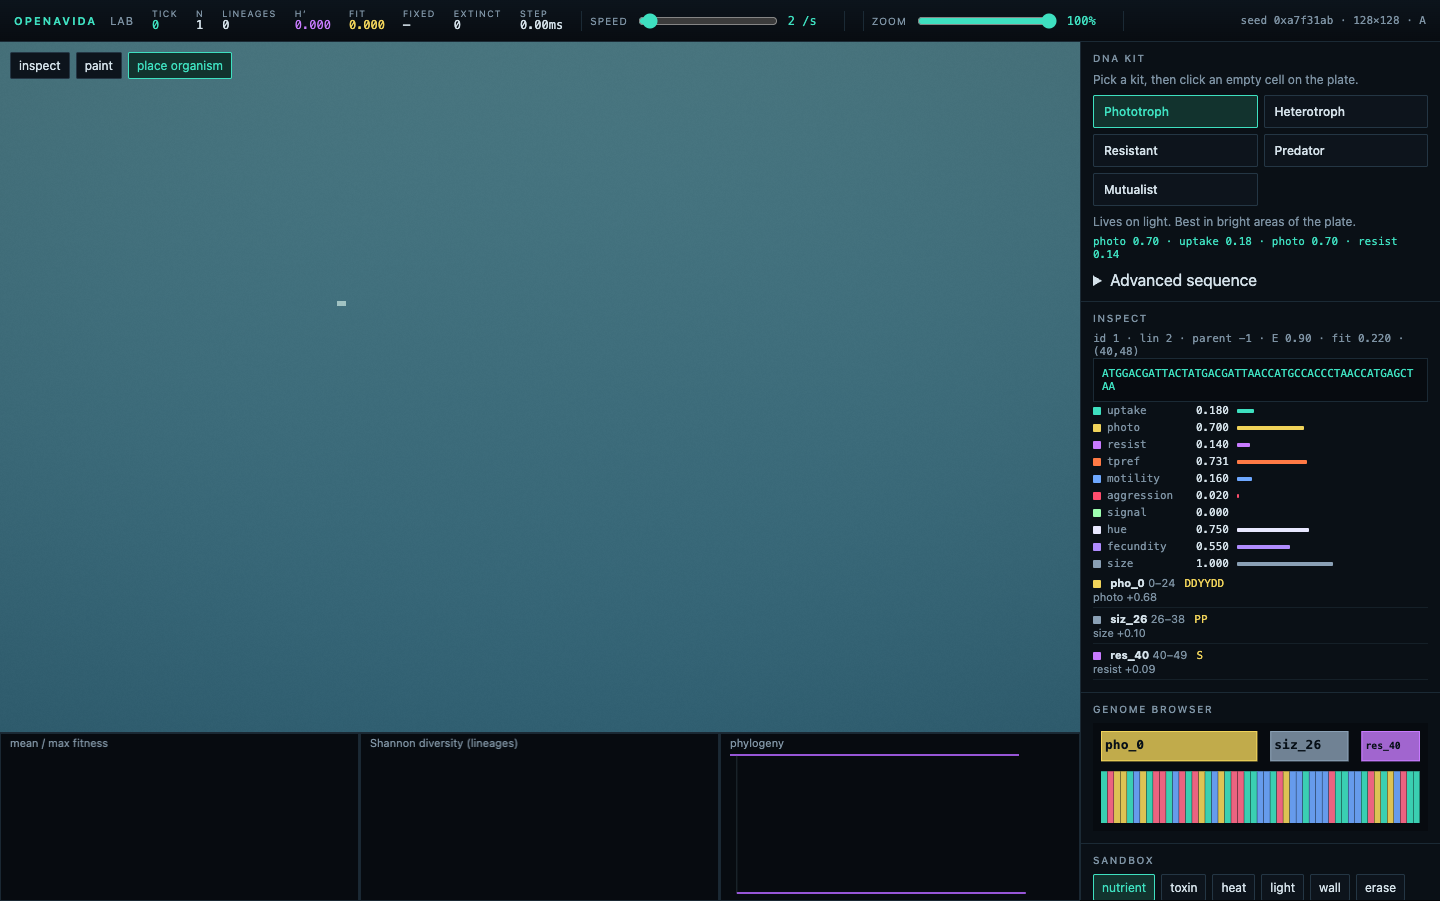
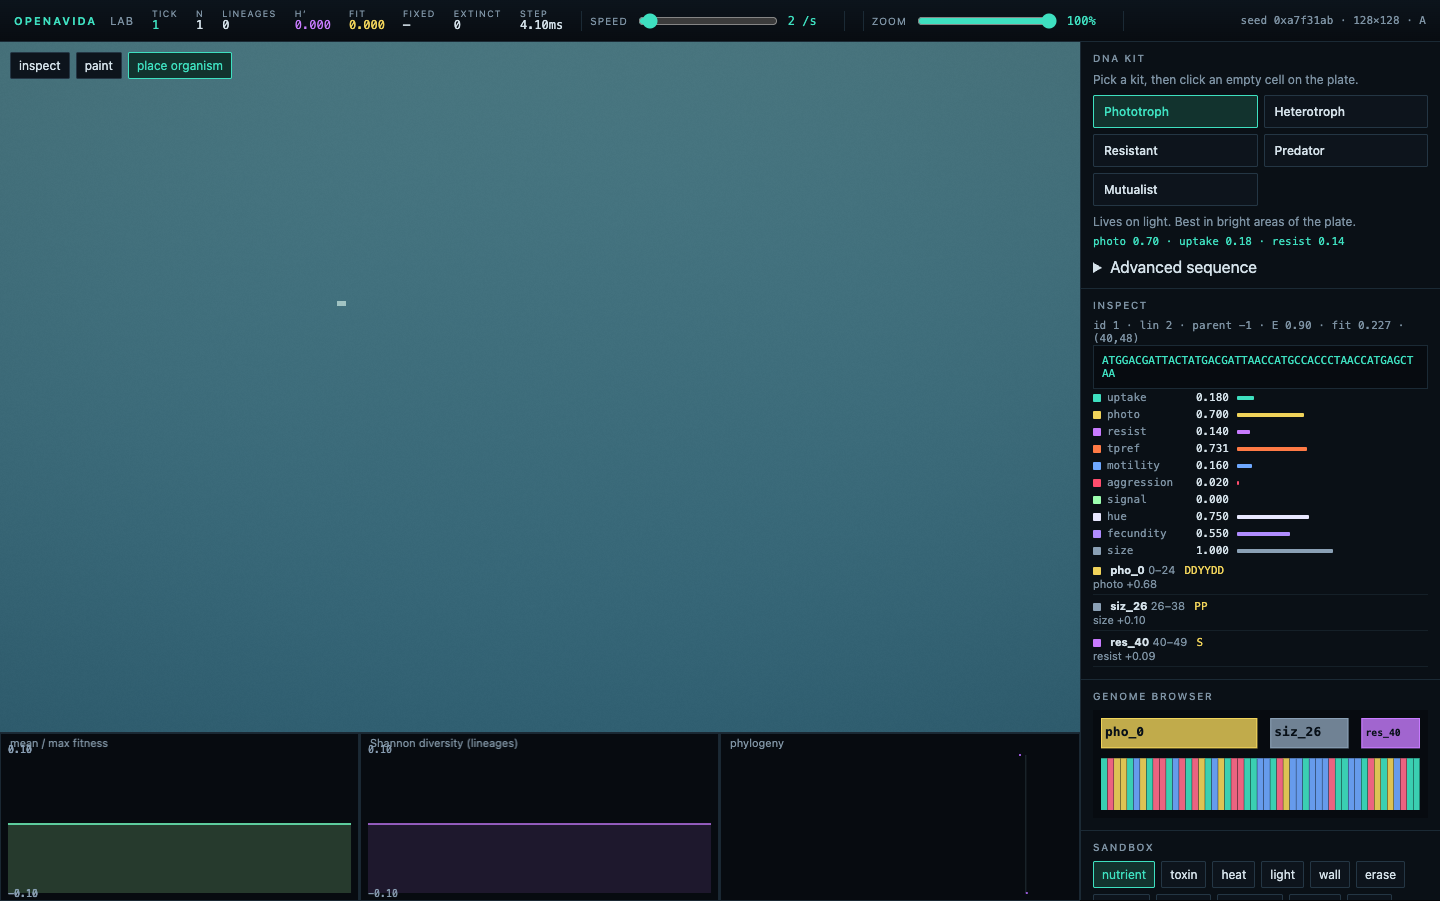
Fix kit-select after paint: place uses applyTool so paintMode clears.
pointerAction is the shipped click router; selecting a DNA kit now
calls setTool('place') instead of only flipping the HUD class.

diff --git a/src/app.ts b/src/app.ts
@@ -35,6 +35,7 @@ import { Rng } from "./sim/rng";
 import { syncGenomeEditor, type EditorSyncReason } from "./ui/editorSync";
 import { formatSpeed, ticksDue } from "./ui/speed";
 import { CONTROL_HELP, attachControlHelp } from "./ui/help";
+import { applyTool, pointerAction, type LabTool } from "./ui/pointer";
 
 const BRUSHES: { id: BrushKind; label: string }[] = [
   { id: "nutrientBlob", label: "nutrient" },
@@ -50,7 +51,7 @@ const BRUSHES: { id: BrushKind; label: string }[] = [
   { id: "wipeOrgs", label: "wipe" },
 ];
 
-type LabTool = "inspect" | "paint" | "place";
+
 
 function el<K extends keyof HTMLElementTagNameMap>(
   tag: K,
@@ -258,7 +259,7 @@ export function mount(root: HTMLElement): void {
     const ph = phenotypeForKit(id);
     const focus = kit.focus;
     (side.querySelector("#kit-traits") as HTMLElement).textContent =
-      `${focus} ${Number(ph[focus]).toFixed(2)} · uptake ${ph.uptake.toFixed(2)} · photo ${ph.photo.toFixed(2)} · resist ${ph.resist.toFixed(2)}`;
+      `${focus} ${Number(ph[focus]).toFixed(2)} · uptake ${ph.uptake.toFixed(2)} · resist ${ph.resist.toFixed(2)}`;
     (side.querySelector("#genome-edit") as HTMLTextAreaElement).value = genomeForKit(id);
     (side.querySelector("#founder") as HTMLSelectElement).value = id;
   };
@@ -270,9 +271,7 @@ export function mount(root: HTMLElement): void {
     const t = ev.target as HTMLElement;
     const id = t.id.startsWith("kit-") ? t.id.slice(4) : "";
     if (id) {
-      state.tool = "place";
-      hud.querySelectorAll("button").forEach((b) => b.classList.toggle("active", b.id === "tool-place"));
-      showKit(id);
+      selectKit(id);
     }
   });
   const legend = side.querySelector("#legend")!;
@@ -292,13 +291,19 @@ export function mount(root: HTMLElement): void {
   }
 
   function setTool(tool: LabTool): void {
-    state.tool = tool;
-    state.paintMode = tool === "paint";
+    const next = applyTool(tool);
+    state.tool = next.tool;
+    state.paintMode = next.paintMode;
     hud.querySelectorAll("button").forEach((b) => b.classList.toggle("active", b.id === "tool-" + tool));
     const hint = side.querySelector("#place-hint") as HTMLElement;
     if (tool === "place") hint.textContent = "Pick a kit, then click an empty cell on the plate.";
     else if (tool === "paint") hint.textContent = "Click or drag to paint the selected substance (nutrient, toxin, wall…).";
     else hint.textContent = "Click an organism to inspect its genome.";
+  }
+
+  function selectKit(id: string): void {
+    setTool("place");
+    showKit(id);
   }
 
   function selectOrganism(world: World, id: number, reason: EditorSyncReason = "select"): void {
@@ -419,14 +424,20 @@ export function mount(root: HTMLElement): void {
     const world = sidePick === "B" ? dual.b : dual.a;
     const grid = renderer.canvasToGrid(ev.clientX, ev.clientY, world);
     if (!grid) return;
-    const paint = state.tool === "paint" || state.paintMode || ev.shiftKey || ev.altKey || ev.buttons === 2;
-    if (paint) {
+    const action = pointerAction({
+      tool: state.tool,
+      paintMode: state.paintMode,
+      shiftKey: ev.shiftKey,
+      altKey: ev.altKey,
+      buttons: ev.buttons,
+    });
+    if (action === "paint") {
       state.painting = true;
       paintTerrain(world, grid.x, grid.y, state.radius, state.brush);
       return;
     }
     if (!down) return;
-    if (state.tool === "place") {
+    if (action === "place") {
       const seq = (side.querySelector("#genome-edit") as HTMLTextAreaElement).value || genomeForKit(state.kit);
       const child = placeOrganismAt(world, grid.x, grid.y, seq);
       if (child) {
@@ -458,7 +469,14 @@ export function mount(root: HTMLElement): void {
   });
   canvas.addEventListener("pointermove", (ev) => {
     if (ev.buttons === 0) return;
-    if (state.painting || state.paintMode || ev.shiftKey) paintAt(ev);
+    const action = pointerAction({
+      tool: state.tool,
+      paintMode: state.paintMode,
+      shiftKey: ev.shiftKey,
+      altKey: ev.altKey,
+      buttons: ev.buttons,
+    });
+    if (action === "paint") paintAt(ev);
   });
   canvas.addEventListener("pointerup", () => {
     state.painting = false;

diff --git a/tests/pointer.test.ts b/tests/pointer.test.ts
@@ -1,0 +1,34 @@
+import { readFileSync } from "node:fs";
+import { dirname, resolve } from "node:path";
+import { fileURLToPath } from "node:url";
+import { describe, expect, it } from "vitest";
+import { applyTool, pointerAction } from "../src/ui/pointer";
+
+const appSrc = readFileSync(resolve(dirname(fileURLToPath(import.meta.url)), "../src/app.ts"), "utf8");
+
+describe("plate pointer action", () => {
+  it("after paint then kit-select (place) the next click places, it does not paint", () => {
+    let s = applyTool("paint");
+    expect(s.paintMode).toBe(true);
+    expect(
+      pointerAction({ tool: s.tool, paintMode: s.paintMode, shiftKey: false, altKey: false, buttons: 1 }),
+    ).toBe("paint");
+
+    s = applyTool("place");
+    expect(s.tool).toBe("place");
+    expect(s.paintMode).toBe(false);
+    expect(
+      pointerAction({ tool: s.tool, paintMode: s.paintMode, shiftKey: false, altKey: false, buttons: 1 }),
+    ).toBe("place");
+    expect(appSrc).toContain("pointerAction");
+    expect(appSrc).toContain("selectKit");
+    expect(appSrc).toContain('applyTool(tool)');
+  });
+
+  it("shift still paints while the place tool is active", () => {
+    const s = applyTool("place");
+    expect(
+      pointerAction({ tool: s.tool, paintMode: s.paintMode, shiftKey: true, altKey: false, buttons: 1 }),
+    ).toBe("paint");
+  });
+});

diff --git a/src/ui/pointer.ts b/src/ui/pointer.ts
@@ -1,0 +1,25 @@
+/** Click on the plate: paint substance, place one organism, or inspect. */
+
+export type LabTool = "inspect" | "paint" | "place";
+export type PointerAction = "paint" | "place" | "inspect";
+
+export function applyTool(tool: LabTool): { tool: LabTool; paintMode: boolean } {
+  return { tool, paintMode: tool === "paint" };
+}
+
+/**
+ * Kit-select must go through applyTool("place") so paintMode is cleared.
+ * Shift / Alt / right-button still paint as a shortcut.
+ */
+export function pointerAction(args: {
+  tool: LabTool;
+  paintMode: boolean;
+  shiftKey: boolean;
+  altKey: boolean;
+  buttons: number;
+}): PointerAction {
+  if (args.shiftKey || args.altKey || args.buttons === 2) return "paint";
+  if (args.tool === "paint" || args.paintMode) return "paint";
+  if (args.tool === "place") return "place";
+  return "inspect";
+}

diff --git a/workbench.md b/workbench.md
@@ -17,6 +17,10 @@ Isolated Vite + TypeScript + Vitest app at `openavida-lab/`. Sim core (`src/sim/
 
 Phase 2 hooks (comments only): 3D continuum, biochemistry, multiplayer, LLM brains.
 
+## Pointer: kit after paint
+
+`applyTool("place")` clears `paintMode`. `pointerAction` is what `onPointer` uses. Kit buttons call `selectKit` → `setTool("place")`. Test: paint then kit-select → action is place (`tests/pointer.test.ts`).
+
 ## Round: blank start + place DNA kits (2026-09-06)
 
 - Default `startPopulation` 0, no random orbs. Launch `pop0=0`.
